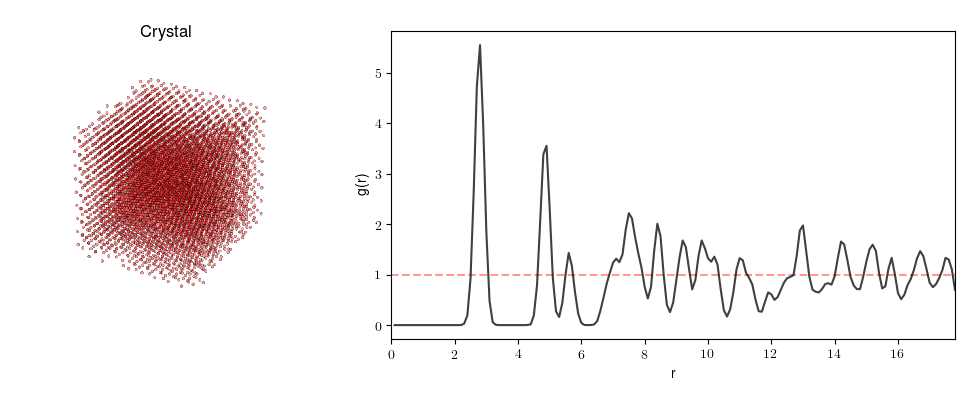
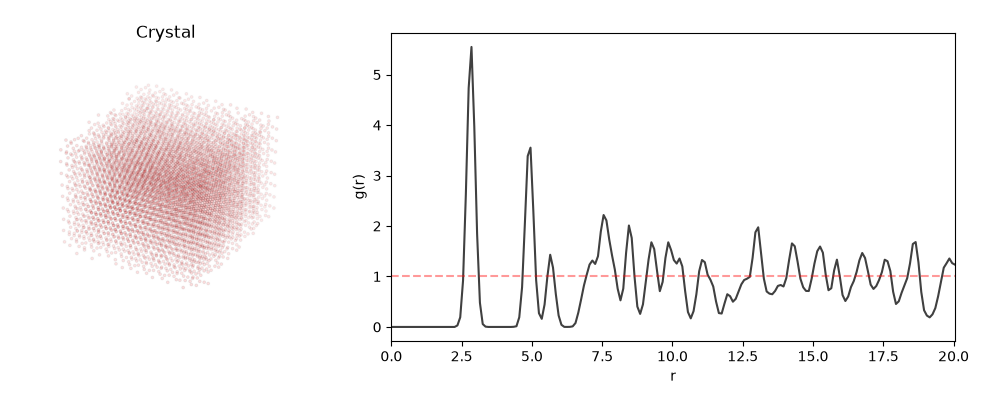
Move examples/ out of package and add a 2-D example

diff --git a/examples/monolayer_2d.py b/examples/monolayer_2d.py
@@ -1,0 +1,93 @@
+"""2D example: RDF of a hexagonal colloidal monolayer.
+
+Unlike the other examples, this one generates its own coordinates rather than
+loading a .npy file, so you can change the lattice, the disorder, or the box
+size and immediately see the effect on g(r).
+
+Requires matplotlib: ``pip install rdfpy[examples]``.
+"""
+import os
+
+import numpy as np
+import matplotlib.pyplot as plt
+
+from rdfpy import rdf
+
+HERE = os.path.dirname(os.path.abspath(__file__))
+
+A = 1.0          # nearest-neighbour spacing
+JITTER = 0.06    # uniform displacement about each site, models thermal motion
+
+
+def hexagonal_monolayer(n_x=60, n_y=70, a=A, jitter=JITTER, seed=0):
+    """Triangular (hexagonal) lattice in 2D.
+
+    Rows are spaced a*sqrt(3)/2 apart and alternate rows are offset by a/2, so
+    every site has 6 nearest neighbours at distance a.
+    """
+    i, j = np.meshgrid(np.arange(n_x), np.arange(n_y), indexing='ij')
+    x = (i + 0.5 * (j % 2)) * a
+    y = j * (np.sqrt(3) / 2) * a
+    particles = np.stack([x.ravel(), y.ravel()], axis=1)
+    if jitter:
+        rng = np.random.default_rng(seed)
+        particles = particles + rng.uniform(-jitter, jitter, particles.shape)
+    return particles
+
+
+particles = hexagonal_monolayer()
+
+# A hexagonal lattice has a known areal density of 2/(sqrt(3)*a^2). Passing it
+# explicitly is worth doing here: inferring rho from the bounding box of the
+# particles overestimates it by ~2% for this configuration, because the box
+# corners sit on the outermost particles rather than half a lattice spacing
+# beyond them.
+rho = 2 / (np.sqrt(3) * A**2)
+
+g_r, radii = rdf(particles, dr=0.02, rho=rho)
+
+# Neighbour shells of a triangular lattice, in units of a, with their
+# coordination numbers.
+shells = [(1.0, 6), (np.sqrt(3), 6), (2.0, 6), (np.sqrt(7), 12), (3.0, 6)]
+
+fig, axes = plt.subplots(1, 2, figsize=(12, 4.5),
+                         gridspec_kw={'width_ratios': [1, 2]})
+
+window = particles[:, 0] < 15 * A
+axes[0].scatter(particles[window, 0], particles[window, 1], s=14,
+                color='tab:blue', alpha=0.8, edgecolors='k', linewidths=0.3)
+axes[0].set_aspect('equal')
+axes[0].set_xlim(0, 15 * A)
+axes[0].set_ylim(0, 15 * A)
+axes[0].axis('off')
+axes[0].set_title('Hexagonal monolayer (detail)')
+
+axes[1].plot(radii, g_r, color='k', alpha=0.8, lw=1.2)
+axes[1].hlines(y=1.0, xmin=0.0, xmax=max(radii), color='r', linestyle='--',
+               alpha=0.4)
+for distance, coordination in shells:
+    axes[1].axvline(distance, color='tab:blue', linestyle=':', alpha=0.5)
+    axes[1].annotate('{}'.format(coordination), xy=(distance, 0.5),
+                     ha='center', fontsize=9, color='tab:blue')
+axes[1].set_ylabel('g(r)')
+axes[1].set_xlabel('r')
+axes[1].set_xlim(0.0, 6.0)
+axes[1].set_title('Dotted lines: exact shell radii, labelled with coordination '
+                  'number')
+
+plt.tight_layout()
+plt.savefig(os.path.join(HERE, 'monolayer_2d.png'), bbox_inches='tight',
+            pad_inches=0.25)
+plt.show()
+
+# Integrating rho * g(r) * shell_area over each peak recovers the coordination
+# numbers to within about 1%, which is a good way to check an RDF against a
+# known structure.
+dr = radii[1] - radii[0]
+shell_area = np.pi * ((radii + dr / 2)**2 - (radii - dr / 2)**2)
+print('shell      integrated    exact')
+for distance, coordination in shells:
+    mask = np.abs(radii - distance) < 0.15
+    integrated = np.nansum((rho * g_r * shell_area)[mask])
+    print('r = {:.3f}   {:9.3f}   {:6d}'.format(distance, integrated,
+                                                coordination))

diff --git a/examples/water.py b/examples/water.py
@@ -1,38 +1,45 @@
-import sys
-sys.path.append('..')
+"""Plot the particles and RDF of a water configuration.
+
+Particle positions were obtained from http://www.ergoscf.org/xyz/h2o.php
+Requires matplotlib: ``pip install rdfpy[examples]``.
+"""
+import os
+
 import numpy as np
 import matplotlib.pyplot as plt
-from mpl_toolkits.mplot3d import Axes3D
-from rdfpy import rdf3d
 
-from matplotlib import rc
-rc('font',**{'family':'sans-serif','sans-serif':['Helvetica']})
-rc('text', usetex=True)
+from rdfpy import rdf
 
-# particle positions were obtained from http://www.ergoscf.org/xyz/h2o.php
-particles = np.load('./water.npy')
+HERE = os.path.dirname(os.path.abspath(__file__))
+
+particles = np.load(os.path.join(HERE, 'water.npy'))
 
 fig = plt.figure(figsize=(9, 9))
 ax = fig.add_subplot(111, projection='3d')
-ax.scatter(particles[:, 0], particles[:, 1], particles[:, 2], color='aqua', alpha=0.3, edgecolors='k', s=25)
+ax.scatter(particles[:, 0], particles[:, 1], particles[:, 2], color='aqua',
+           alpha=0.3, edgecolors='k', s=25)
 plt.axis('off')
-plt.savefig('./water-particles.png', bbox_inches='tight', pad_inches=0.0)
+plt.savefig(os.path.join(HERE, 'water-particles.png'), bbox_inches='tight',
+            pad_inches=0.0)
 plt.close()
 
-g_r, radii = rdf3d(particles, dr=0.2)
+g_r, radii = rdf(particles, dr=0.2)
 
-image = plt.imread('./water-particles.png')
+image = plt.imread(os.path.join(HERE, 'water-particles.png'))
 
-fig, axes = plt.subplots(1, 2, figsize=(12, 4), gridspec_kw={'width_ratios': [1, 2]})
+fig, axes = plt.subplots(1, 2, figsize=(12, 4),
+                         gridspec_kw={'width_ratios': [1, 2]})
 
 axes[0].imshow(image)
 axes[0].axis('off')
+axes[0].set_title('H$_{2}$O')
 
 axes[1].plot(radii, g_r, color='k', alpha=0.75)
-axes[1].hlines(y=1.0, xmin=0.0, xmax=max(radii), color='r', linestyle='--', alpha=0.4)
-axes[1].set_ylabel(r'g(r)')
-axes[1].set_xlabel(r'r')
+axes[1].hlines(y=1.0, xmin=0.0, xmax=max(radii), color='r', linestyle='--',
+               alpha=0.4)
+axes[1].set_ylabel('g(r)')
+axes[1].set_xlabel('r')
 axes[1].set_xlim(0.0, max(radii))
-axes[0].set_title(r'H$_{2}$O')
-plt.savefig('./water.png', bbox_inches='tight', pad_inches=0.25)
+plt.savefig(os.path.join(HERE, 'water.png'), bbox_inches='tight',
+            pad_inches=0.25)
 plt.show()

diff --git a/examples/crystal.py b/examples/crystal.py
@@ -1,37 +1,44 @@
-import sys
-sys.path.append('..')
+"""Plot the particles and RDF of a crystal structure.
+
+Requires matplotlib: ``pip install rdfpy[examples]``.
+"""
+import os
+
 import numpy as np
 import matplotlib.pyplot as plt
-from mpl_toolkits.mplot3d import Axes3D
-from rdfpy import rdf3d
 
-from matplotlib import rc
-rc('font',**{'family':'sans-serif','sans-serif':['Helvetica']})
-rc('text', usetex=True)
+from rdfpy import rdf
 
-particles = np.load('./crystal.npy')
+HERE = os.path.dirname(os.path.abspath(__file__))
+
+particles = np.load(os.path.join(HERE, 'crystal.npy'))
 
 fig = plt.figure(figsize=(9, 9))
 ax = fig.add_subplot(111, projection='3d')
-ax.scatter(particles[:, 0], particles[:, 1], particles[:, 2], color='r', alpha=0.4, edgecolors='k', s=25)
+ax.scatter(particles[:, 0], particles[:, 1], particles[:, 2], color='r',
+           alpha=0.4, edgecolors='k', s=25)
 plt.axis('off')
-plt.savefig('./crystal-particles.png', bbox_inches='tight', pad_inches=0.0)
+plt.savefig(os.path.join(HERE, 'crystal-particles.png'), bbox_inches='tight',
+            pad_inches=0.0)
 plt.close()
 
-g_r, radii = rdf3d(particles, dr=0.1)
+g_r, radii = rdf(particles, dr=0.1)
 
-image = plt.imread('./crystal-particles.png')
+image = plt.imread(os.path.join(HERE, 'crystal-particles.png'))
 
-fig, axes = plt.subplots(1, 2, figsize=(12, 4), gridspec_kw={'width_ratios': [1, 2]})
+fig, axes = plt.subplots(1, 2, figsize=(12, 4),
+                         gridspec_kw={'width_ratios': [1, 2]})
 
 axes[0].imshow(image)
 axes[0].axis('off')
-axes[0].set_title(r'Crystal')
+axes[0].set_title('Crystal')
 
 axes[1].plot(radii, g_r, color='k', alpha=0.75)
-axes[1].hlines(y=1.0, xmin=0.0, xmax=max(radii), color='r', linestyle='--', alpha=0.4)
-axes[1].set_ylabel(r'g(r)')
-axes[1].set_xlabel(r'r')
+axes[1].hlines(y=1.0, xmin=0.0, xmax=max(radii), color='r', linestyle='--',
+               alpha=0.4)
+axes[1].set_ylabel('g(r)')
+axes[1].set_xlabel('r')
 axes[1].set_xlim(0.0, max(radii))
-plt.savefig('./crystal.png', bbox_inches='tight', pad_inches=0.25)
+plt.savefig(os.path.join(HERE, 'crystal.png'), bbox_inches='tight',
+            pad_inches=0.25)
 plt.show()
